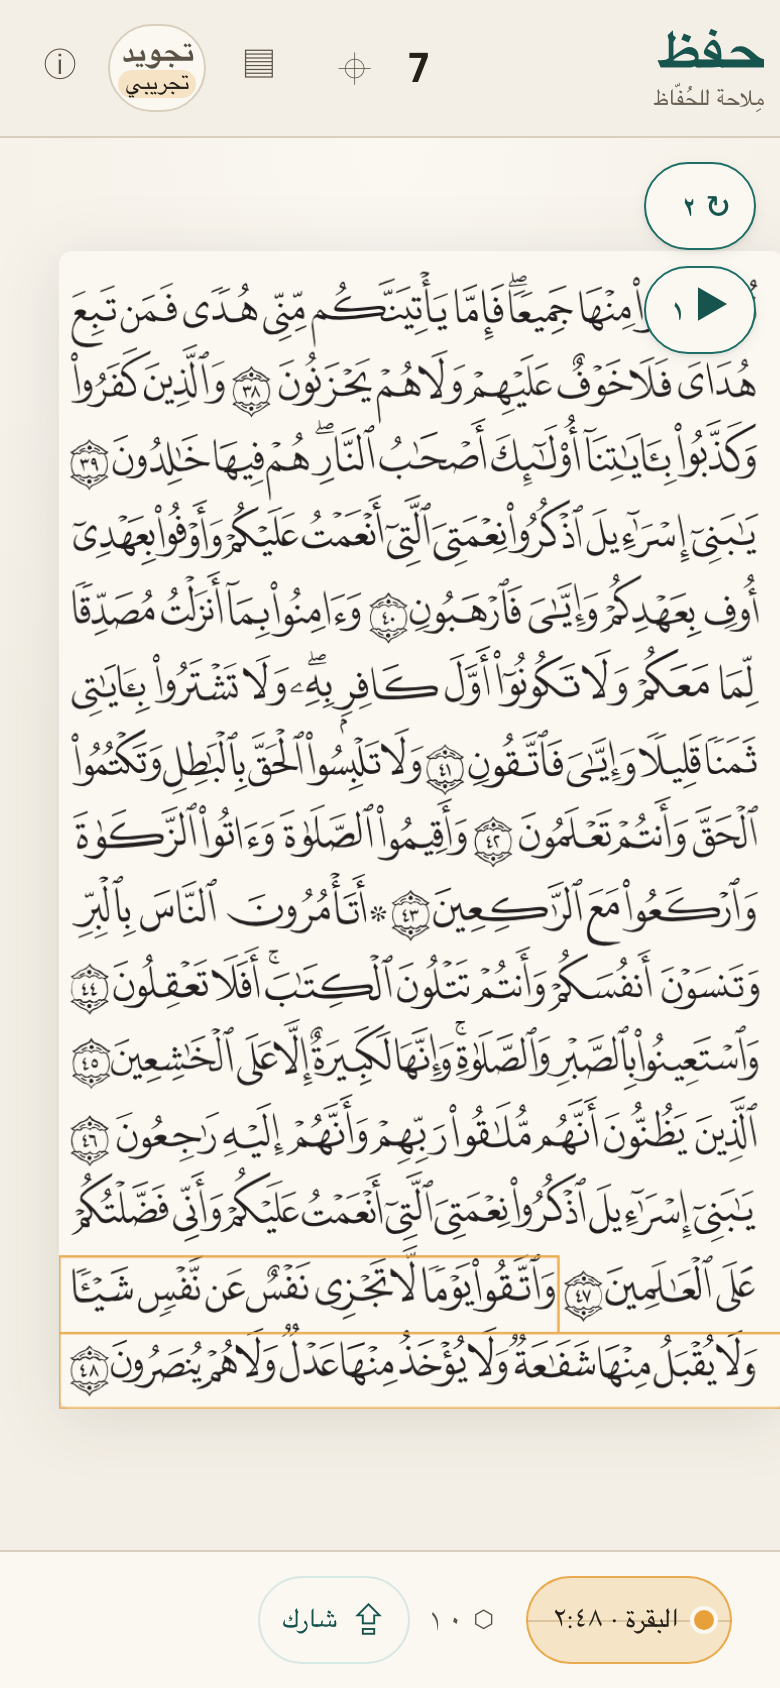
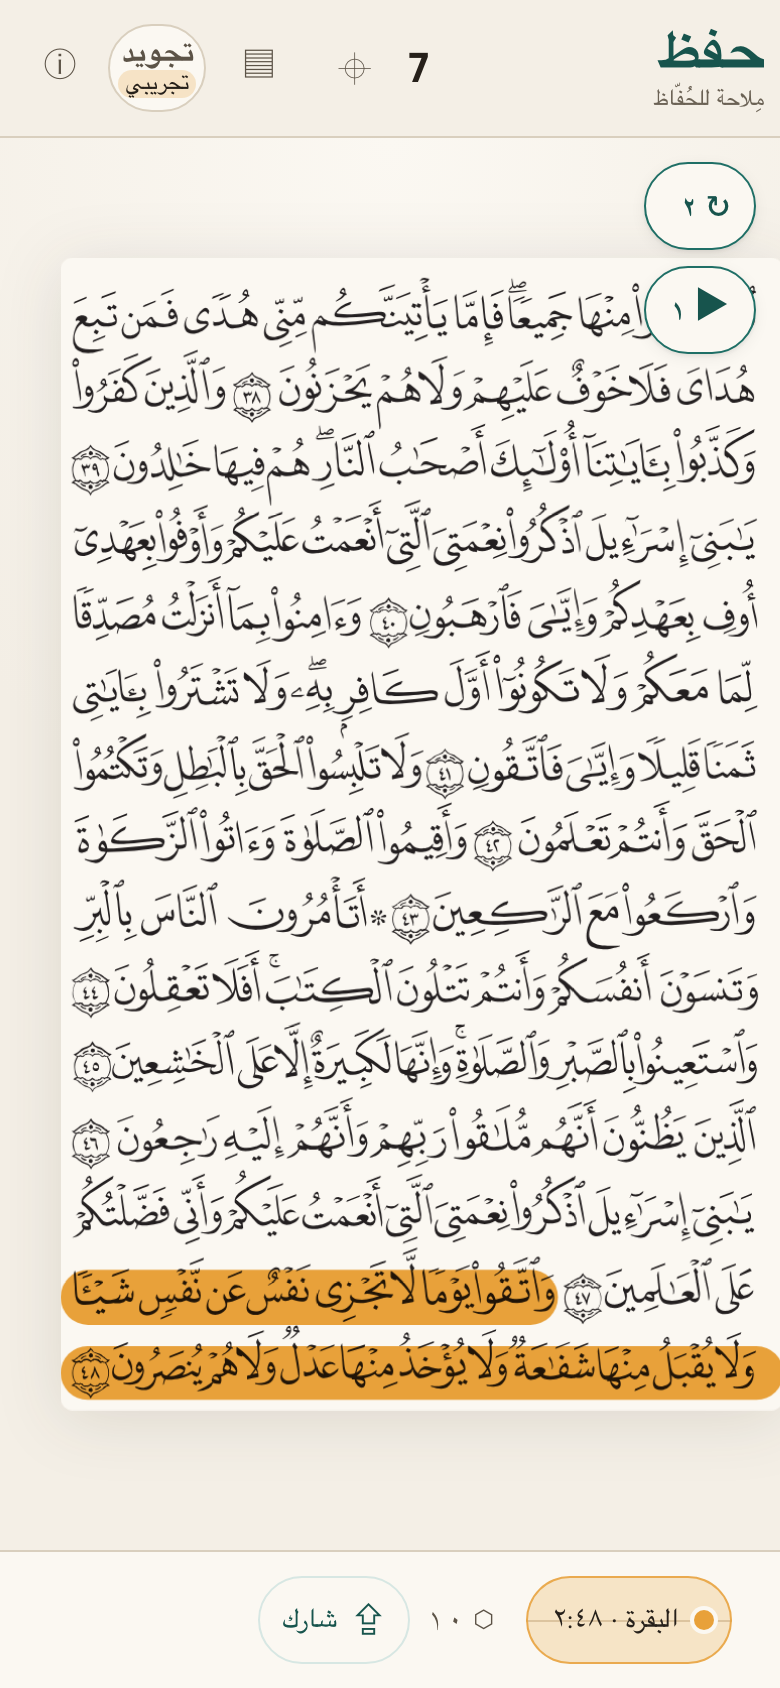
docs: the highlight is a pen now, everywhere we describe it
docs/map.json gains ink.ts as the answer to "why does the highlight look
like a pen and not a box", and the `extend` step now says to decide whether
a new mark is ink and give it an `--ink-*` token — the ink rules blend with
multiply and the alpha washes are tuned for compositing over, so the two
families are not interchangeable.

The perf runbook told someone holding a phone to expect "the amber wash",
which is no longer what lands. Regenerated guide.html (the staleness hash
gate insists) and recaptured the shots.

The colophon and probe shots move too — they carry a build hash and measured
numbers, so they change on any recapture. Nothing there is about the ink.

Claude-Session: https://claude.ai/code/session_01EuhvbUKjGesE3uMhjCzBGt

Changed region(s): [[0.0615, 0.154, 1.0, 0.8318]]

diff --git a/docs/validation/guide.html b/docs/validation/guide.html
@@ -1,5 +1,5 @@
 <!doctype html>
-<html lang="en" data-ledger-hash="bc44c685e75e">
+<html lang="en" data-ledger-hash="a51a0124b117">
 <head>
 <meta charset="utf-8">
 <meta name="viewport" content="width=device-width, initial-scale=1, viewport-fit=cover">
@@ -107,7 +107,7 @@ label.do span { padding: 8px 0; }
   <p class="rule">Every result here must tighten something automated — a threshold, a
   fixture, a gate. That is what <b>tunes</b> is for at the foot of each card. A verdict
   that tunes nothing has to be bought again by hand, forever.</p>
-  <p class="src">Generated from <code>docs/validation/ledger.json</code> · <code>bc44c685e75e</code>
+  <p class="src">Generated from <code>docs/validation/ledger.json</code> · <code>a51a0124b117</code>
   · never edit this file — run <code>make guide</code></p>
 </header>
 
@@ -167,7 +167,7 @@ label.do span { padding: 8px 0; }
       </li>
       <li>
         <label class="do"><input type="checkbox" data-step="perf-verdict-on-device:4"><span>Segment 3 — «<bdi>اضغط آيات مختلفة</bdi>»: tap a different ayah roughly once a second.</span></label>
-        <p class="expect">The amber wash lands on each ayah you tap. Different ayahs, not the same one twice — you are measuring overlay churn.</p>
+        <p class="expect">Amber marker swipes land on each ayah you tap — one along the middle of every line it occupies, with the scripture still readable through them. Different ayahs, not the same one twice — you are measuring overlay churn.</p>
         
         <p class="why">Separates rendering cost from interaction cost. If only this segment is bad the problem is overlay churn in the highlighter — a real bug, but not one that changes which rendering strategy Loop 4b builds.</p>
       </li>
